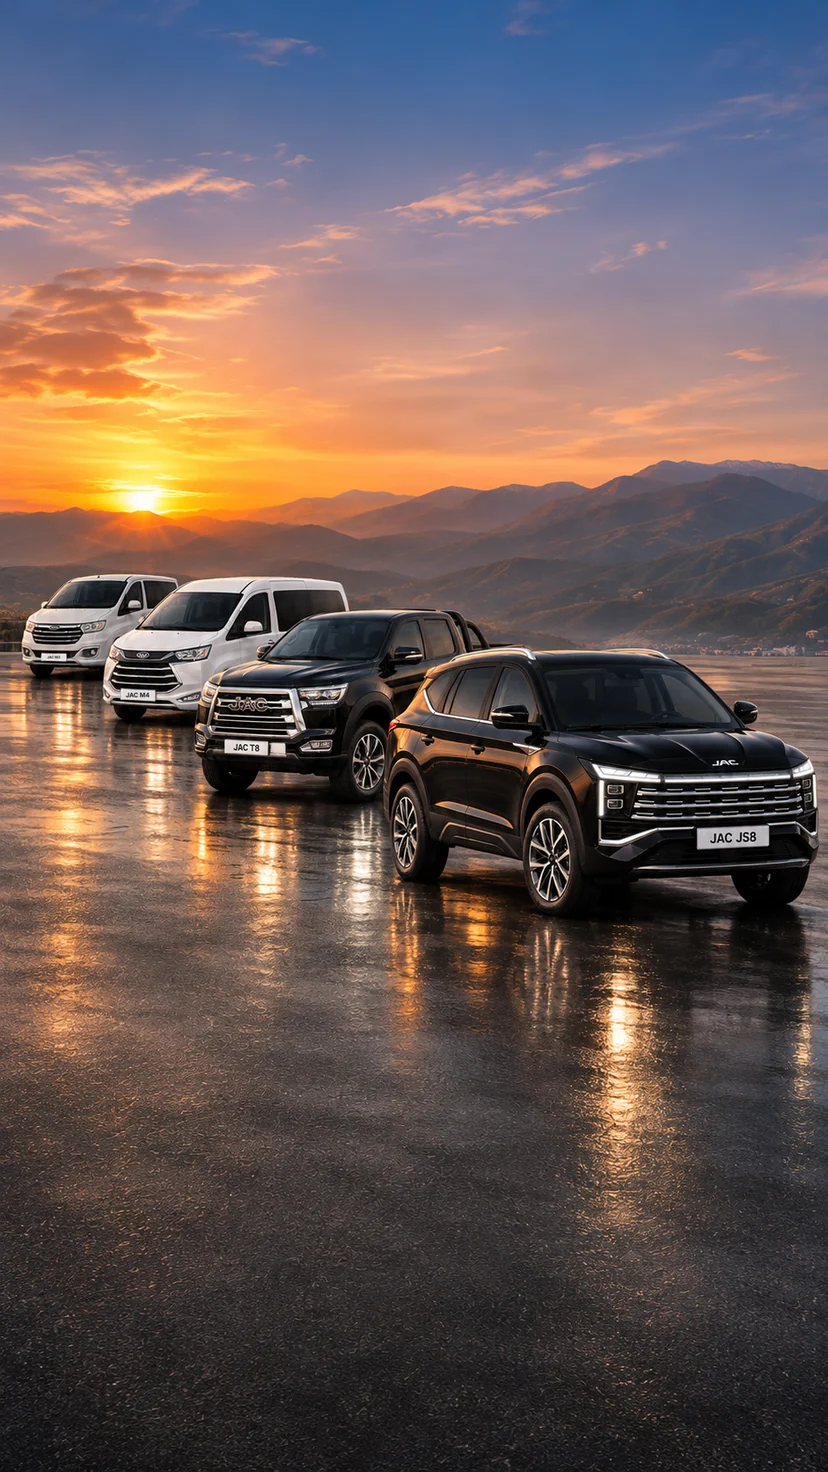
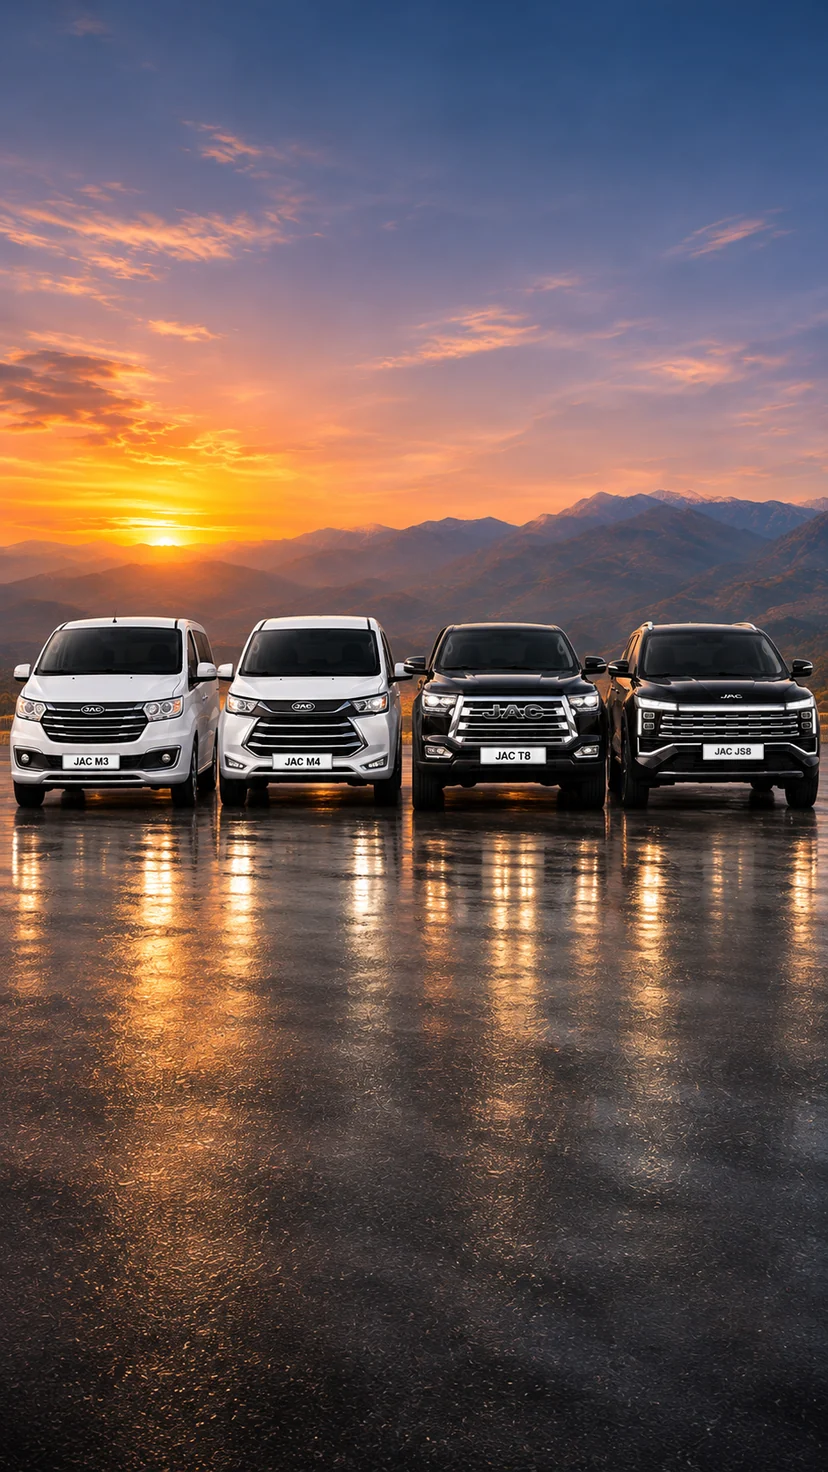
Главный экран: модели ровно в один ряд (ПК и телефон), обновлено превью для соцсетей

diff --git a/index.html b/index.html
@@ -29,7 +29,7 @@
   <meta property="og:url" content="https://jac-aster.uz/">
   <meta property="og:title" content="JAC в Самарканде — JS8, T8, M4, M3 | Официальный дилер JAC ASTER">
   <meta property="og:description" content="Кроссовер JAC JS8, пикап JAC T8, микроавтобусы JAC M4 и JAC M3. Цены, кредит, рассрочка и тест-драйв в Самарканде.">
-  <meta property="og:image" content="https://jac-aster.uz/assets/img/brand/og-image.jpg?v=2">
+  <meta property="og:image" content="https://jac-aster.uz/assets/img/brand/og-image.jpg?v=3">
   <meta property="og:image:width" content="1200">
   <meta property="og:image:height" content="630">
   <meta name="twitter:card" content="summary_large_image">
@@ -43,8 +43,8 @@
   <!-- Предзагрузка шрифта и главного фото для скорости -->
   <link rel="preload" href="assets/fonts/roboto-cyrillic.woff2" as="font" type="font/woff2" crossorigin>
   <link rel="preload" href="assets/fonts/roboto-latin.woff2" as="font" type="font/woff2" crossorigin>
-  <link rel="preload" as="image" href="assets/img/brand/home-hero-mobile.webp?v=2" media="(max-width: 800px)" fetchpriority="high">
-  <link rel="preload" as="image" href="assets/img/brand/home-hero.webp?v=2" media="(min-width: 801px)" fetchpriority="high">
+  <link rel="preload" as="image" href="assets/img/brand/home-hero-mobile.webp?v=3" media="(max-width: 800px)" fetchpriority="high">
+  <link rel="preload" as="image" href="assets/img/brand/home-hero.webp?v=3" media="(min-width: 801px)" fetchpriority="high">
 
   <link rel="stylesheet" href="assets/css/style.css?v=4">
 
@@ -59,7 +59,7 @@
     "alternateName": ["JAC Самарканд", "JAC Samarqand Aster"],
     "url": "https://jac-aster.uz/",
     "logo": "https://jac-aster.uz/assets/img/brand/icon-512.png",
-    "image": "https://jac-aster.uz/assets/img/brand/og-image.jpg?v=2",
+    "image": "https://jac-aster.uz/assets/img/brand/og-image.jpg?v=3",
     "telephone": "+998555163355",
     "priceRange": "313 950 000 – 498 000 000 UZS",
     "currenciesAccepted": "UZS",
@@ -150,8 +150,8 @@
       <div class="hero__media">
         <picture>
           <!-- Вертикальное фото для телефонов -->
-          <source media="(max-width: 800px)" srcset="assets/img/brand/home-hero-mobile.webp?v=2" width="941" height="1672">
-          <img src="assets/img/brand/home-hero.webp?v=2" alt="Модельный ряд JAC: JS8, T8, M4 и M3 на закате" data-i18n-attr="alt:hero.alt" width="1672" height="941" fetchpriority="high" decoding="async">
+          <source media="(max-width: 800px)" srcset="assets/img/brand/home-hero-mobile.webp?v=3" width="941" height="1672">
+          <img src="assets/img/brand/home-hero.webp?v=3" alt="Модельный ряд JAC: JS8, T8, M4 и M3 на закате" data-i18n-attr="alt:hero.alt" width="1672" height="941" fetchpriority="high" decoding="async">
         </picture>
       </div>
       <div class="hero__content container">

diff --git a/m4.html b/m4.html
@@ -30,7 +30,7 @@
   <meta property="og:url" content="https://jac-aster.uz/m4.html">
   <meta property="og:title" content="JAC M4 в Самарканде | JAC ASTER">
   <meta property="og:description" content="JAC M4 в Самарканде — 9-местный микроавтобус для бизнеса, трансфера и туризма: бензин 2.0, сдвижная дверь, кондиционер. Цены, кредит и тест-драйв у официального дилера JAC ASTER.">
-  <meta property="og:image" content="https://jac-aster.uz/assets/img/brand/og-image.jpg?v=2">
+  <meta property="og:image" content="https://jac-aster.uz/assets/img/brand/og-image.jpg?v=3">
   <meta property="og:image:width" content="1200">
   <meta property="og:image:height" content="630">
   <meta name="twitter:card" content="summary_large_image">

diff --git a/m3.html b/m3.html
@@ -30,7 +30,7 @@
   <meta property="og:url" content="https://jac-aster.uz/m3.html">
   <meta property="og:title" content="JAC M3 в Самарканде | JAC ASTER">
   <meta property="og:description" content="JAC M3 в Самарканде — 9-местный минивэн для бизнеса и семьи: 1.8 бензин 133 л.с., 5МКПП, расход около 8,5 л. Цены, кредит и тест-драйв у официального дилера JAC ASTER.">
-  <meta property="og:image" content="https://jac-aster.uz/assets/img/brand/og-image.jpg?v=2">
+  <meta property="og:image" content="https://jac-aster.uz/assets/img/brand/og-image.jpg?v=3">
   <meta property="og:image:width" content="1200">
   <meta property="og:image:height" content="630">
   <meta name="twitter:card" content="summary_large_image">

diff --git a/t8.html b/t8.html
@@ -30,7 +30,7 @@
   <meta property="og:url" content="https://jac-aster.uz/t8.html">
   <meta property="og:title" content="JAC T8 в Самарканде | JAC ASTER">
   <meta property="og:description" content="JAC T8 в Самарканде — рамный пикап 4×4 с двойной кабиной, 2.0T, 6МКПП, клиренс 220 мм. Цены, кредит и рассрочка, тест-драйв у официального дилера JAC ASTER.">
-  <meta property="og:image" content="https://jac-aster.uz/assets/img/brand/og-image.jpg?v=2">
+  <meta property="og:image" content="https://jac-aster.uz/assets/img/brand/og-image.jpg?v=3">
   <meta property="og:image:width" content="1200">
   <meta property="og:image:height" content="630">
   <meta name="twitter:card" content="summary_large_image">

diff --git a/js8.html b/js8.html
@@ -30,7 +30,7 @@
   <meta property="og:url" content="https://jac-aster.uz/js8.html">
   <meta property="og:title" content="JAC JS8 в Самарканде | JAC ASTER">
   <meta property="og:description" content="JAC JS8 в Самарканде — 7-местный кроссовер, 1.5T 180 л.с., робот 7DCT, панорамная крыша, камера 360°. Цена от 313 950 000 сум, кредит и тест-драйв.">
-  <meta property="og:image" content="https://jac-aster.uz/assets/img/brand/og-image.jpg?v=2">
+  <meta property="og:image" content="https://jac-aster.uz/assets/img/brand/og-image.jpg?v=3">
   <meta property="og:image:width" content="1200">
   <meta property="og:image:height" content="630">
   <meta name="twitter:card" content="summary_large_image">
